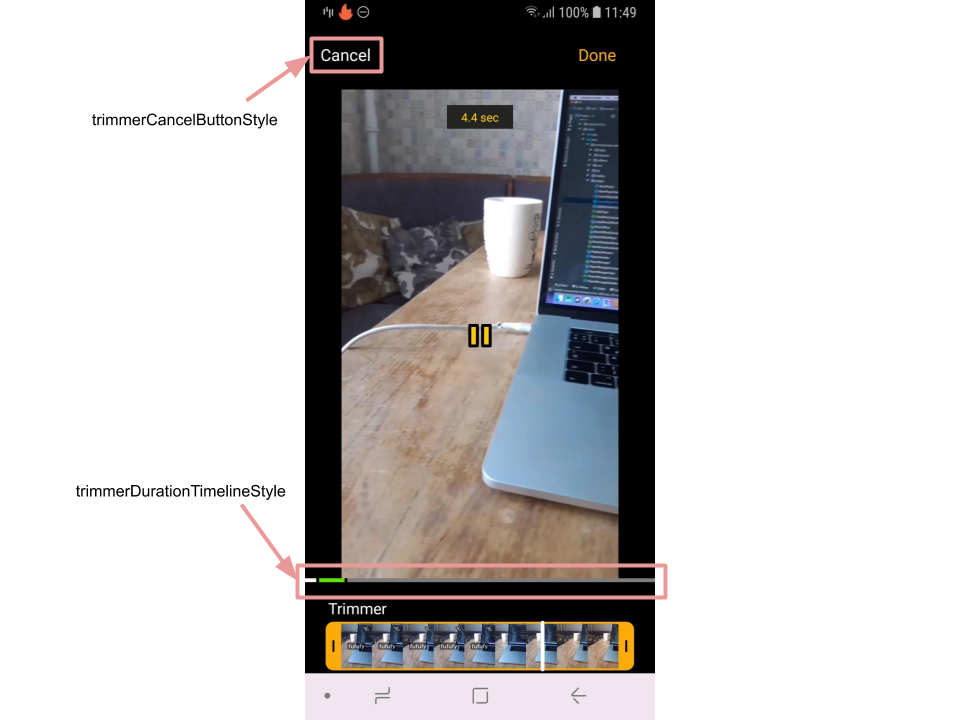
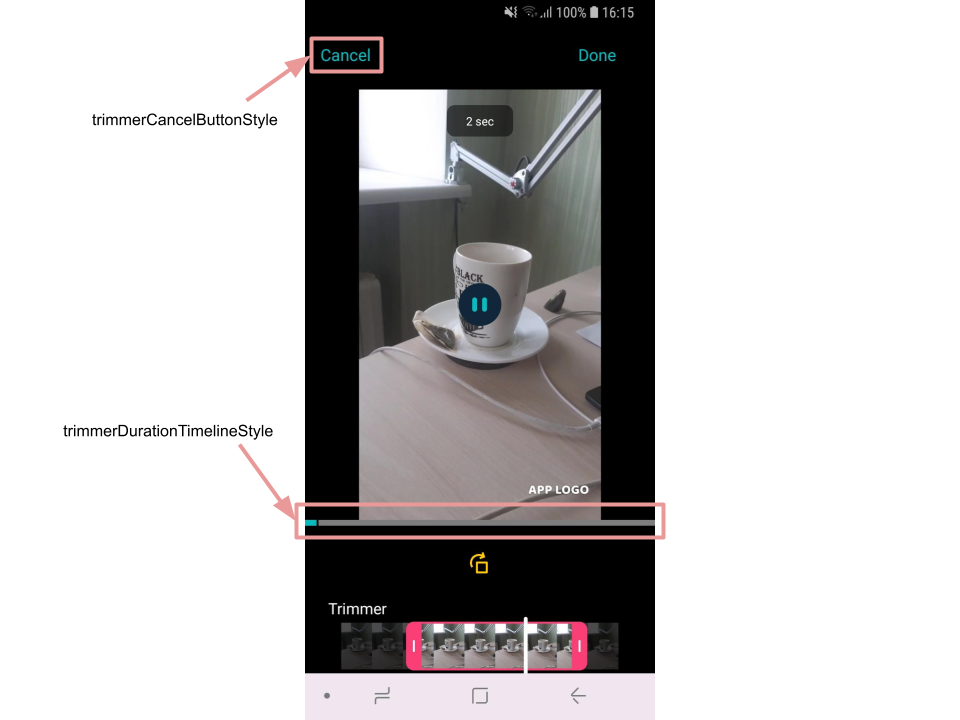
fix trimmer screen styles

diff --git a/mddocs/trimmer_styles.md b/mddocs/trimmer_styles.md
@@ -1,49 +1,69 @@
 # Banuba VideoEditor SDK
 ## Trimmer screen styles
 
-- [trimmerStyle](https://github.com/Banuba/ve-sdk-android-integration-sample/blob/main/app/src/main/res/values/themes.xml#L114)
+- [trimmerStyle](https://github.com/Banuba/ve-sdk-android-integration-sample/blob/main/app/src/main/res/values/themes.xml#L116)
 
     style to customize trimmer view with custom attributes. There are a lot of properties can be changed from its default color to left and right pointers drawables
-- [trimmerBackButtonStyle](https://github.com/Banuba/ve-sdk-android-integration-sample/blob/main/app/src/main/res/values/themes.xml#L115)
+- [trimmerBackButtonStyle](https://github.com/Banuba/ve-sdk-android-integration-sample/blob/main/app/src/main/res/values/themes.xml#L117)
 
     style for the button that returns the user to the previous screen
-- [trimmerNextButtonStyle](https://github.com/Banuba/ve-sdk-android-integration-sample/blob/main/app/src/main/res/values/themes.xml#L116)
+- [trimmerNextButtonStyle](https://github.com/Banuba/ve-sdk-android-integration-sample/blob/main/app/src/main/res/values/themes.xml#L118)
 
     style for the button that starts trimming process and proceeds to the editor screen. In case of single video it called "Done" and starts trimming, in case of multi videos it called "Done" or "Next" depending on the current action:
     - applies new time borders for the selected video and return to multi videos screen
     - proceeds with all changes to the editor screen
-- [trimmerDurationSumTextStyle](https://github.com/Banuba/ve-sdk-android-integration-sample/blob/main/app/src/main/res/values/themes.xml#L117)
+- [trimmerDurationSumTextStyle](https://github.com/Banuba/ve-sdk-android-integration-sample/blob/main/app/src/main/res/values/themes.xml#L119)
 
-    style for the top label that shows the final duration of selected videos after trimming process
+    style for the top label that shows the final duration of selected videos after trimming process. Visibility of this view is defined in custom attribute - [trimmer_time_visible](https://github.com/Banuba/ve-sdk-android-integration-sample/blob/main/app/src/main/res/values/themes.xml#L138)
 
-- [trimmerContentViewStyle](https://github.com/Banuba/ve-sdk-android-integration-sample/blob/main/app/src/main/res/values/themes.xml#L118)
+- [trimmerContentViewStyle](https://github.com/Banuba/ve-sdk-android-integration-sample/blob/main/app/src/main/res/values/themes.xml#L120)
 
     style for the view that plays a role of a container for the trimmer view or the view containing list of selected videos
 
-- [trimmerContentLabelStyle](https://github.com/Banuba/ve-sdk-android-integration-sample/blob/main/app/src/main/res/values/themes.xml#L119)
+- [trimmerContentLabelStyle](https://github.com/Banuba/ve-sdk-android-integration-sample/blob/main/app/src/main/res/values/themes.xml#L121)
 
     style for the label of trimmer view (or list of videos) container
 
+- [trimmerRotateButtonStyle](https://github.com/Banuba/ve-sdk-android-integration-sample/blob/main/app/src/main/res/values/themes.xml#L130)
+
+    style for the rotate button
+
+- [trimmer_icon_play](https://github.com/Banuba/ve-sdk-android-integration-sample/blob/main/app/src/main/res/values/themes.xml#L134) and [trimmer_icon_pause](https://github.com/Banuba/ve-sdk-android-integration-sample/blob/main/app/src/main/res/values/themes.xml#L135)
+
+    attributes for different playback icon states. Visibility of the playback icon itself is defined in [trimmer_play_control_visible](https://github.com/Banuba/ve-sdk-android-integration-sample/blob/main/app/src/main/res/values/themes.xml#L133) attribute
+
     ![img](screenshots/trimmer1.png)
-- [trimmerRecyclerStyle](https://github.com/Banuba/ve-sdk-android-integration-sample/blob/main/app/src/main/res/values/themes.xml#L120)
+- [trimmerRecyclerStyle](https://github.com/Banuba/ve-sdk-android-integration-sample/blob/main/app/src/main/res/values/themes.xml#L122)
 
     style for the RecyclerView containing the list of selected videos
 
-- [trimmerThumbImageStyle](https://github.com/Banuba/ve-sdk-android-integration-sample/blob/main/app/src/main/res/values/themes.xml#L121)
+- [trimmerThumbImageStyle](https://github.com/Banuba/ve-sdk-android-integration-sample/blob/main/app/src/main/res/values/themes.xml#L123)
 
     style for the video item image within trimmer RecyclerView
 
-- [trimmerThumbTextStyle](https://github.com/Banuba/ve-sdk-android-integration-sample/blob/main/app/src/main/res/values/themes.xml#L122)
+- [trimmerThumbHintIconStyle](https://github.com/Banuba/ve-sdk-android-integration-sample/blob/main/app/src/main/res/values/themes.xml#L131)
+
+    style for the top right icon on the video thumbnail
+
+- [trimmerThumbTextStyle](https://github.com/Banuba/ve-sdk-android-integration-sample/blob/main/app/src/main/res/values/themes.xml#L124)
 
     style for the video item duration within trimmer RecyclerView
 
-- [trimmerDeleteLabelStyle](https://github.com/Banuba/ve-sdk-android-integration-sample/blob/main/app/src/main/res/values/themes.xml#L123)
+- [trimmerDeleteLabelStyle](https://github.com/Banuba/ve-sdk-android-integration-sample/blob/main/app/src/main/res/values/themes.xml#L125)
 
     style for the text view that appears when the user dragging video from the videos list. The video should be moved over the "delete" image to be deleted
 
-- [trimmerDeleteCrossStyle](https://github.com/Banuba/ve-sdk-android-integration-sample/blob/main/app/src/main/res/values/themes.xml#L124)
+- [trimmerDeleteCrossStyle](https://github.com/Banuba/ve-sdk-android-integration-sample/blob/main/app/src/main/res/values/themes.xml#L126)
 
     style for the image view that appears when the user dragging video from the videos list. The video should be moved over the "delete" image to be deleted 
+
+- [trimmerContentHintStyle](https://github.com/Banuba/ve-sdk-android-integration-sample/blob/main/app/src/main/res/values/themes.xml#L129)
+
+    style for the TextView describing available action on the screen
+
+- [trimmer_icon_add_video](https://github.com/Banuba/ve-sdk-android-integration-sample/blob/main/app/src/main/res/values/themes.xml#L136)
+
+    attribute for the drawable resource representing a button that allows to select additional videos from the gallery. Also there is a [trimmer_bg_color_add_video](https://github.com/Banuba/ve-sdk-android-integration-sample/blob/main/app/src/main/res/values/themes.xml#L137) attribute to define the background color of this icon
 
     ![img](screenshots/trimmer2.png)
 
@@ -57,14 +77,6 @@
 
     ![img](screenshots/trimmer3.png)
 
-Trimmer screen customization also provided by several custom theme attributes:
-- [trimmer_play_control_visible](https://github.com/Banuba/ve-sdk-android-integration-sample/blob/main/app/src/main/res/values/themes.xml#L128) - to set if buttons play/pause should be visible
-- [trimmer_icon_play](https://github.com/Banuba/ve-sdk-android-integration-sample/blob/main/app/src/main/res/values/themes.xml#L129) - for play button drawable
-- [trimmer_icon_pause](https://github.com/Banuba/ve-sdk-android-integration-sample/blob/main/app/src/main/res/values/themes.xml#L130) - for pause button drawable
-- [trimmer_icon_add_video](https://github.com/Banuba/ve-sdk-android-integration-sample/blob/main/app/src/main/res/values/themes.xml#L131) - for the last item in videos list RecyclerView. This item allows the user to open gallery screen to add videos to the recent list
-- [trimmer_bg_color_add_video](https://github.com/Banuba/ve-sdk-android-integration-sample/blob/main/app/src/main/res/values/themes.xml#L132) - for the background color of the special item configured by "trimmer_icon_add_video" attribute
-- [trimmer_time_visible](https://github.com/Banuba/ve-sdk-android-integration-sample/blob/main/app/src/main/res/values/themes.xml#L133) - to set if the label that shows final video duration should be visible
-- [trimmer_hint_visible](https://github.com/Banuba/ve-sdk-android-integration-sample/blob/main/app/src/main/res/values/themes.xml#L134) - to set if the custom hint should be visible. To configure the custom hint the TrimmerHintStyle should be overridden.
 
 ## String resources
 
@@ -75,5 +87,6 @@ Trimmer screen customization also provided by several custom theme attributes:
 | trimmer_duration_format_exceed | Max length %1$s sec | label that is shown on the top of the trimmer screen in case of the sum of all selected videos exceeds the ```maxVideoDuration``` parameter in [videoeditor.json](https://github.com/Banuba/ve-sdk-android-integration-sample/blob/main/app/src/main/assets/videoeditor.json#L4) file. Realated TextView is customized in ```trimmerDurationSumTextStyle```
 | trimmer_content_label_single | Trimmer | label of the trimmer when selected one video. Related TextView is customized in ```trimmerContentLabelStyle```
 | trimmer_content_label_multi | Multitrimmer | label of the trimmer when selected several videos. Related TextView is customized in ```trimmerContentLabelStyle```
+| trimmer_content_hint | Use long press to change the order or remove | message shown on the multitrim inside the view customized by the `trimmerContentHintStyle`
 | err_trimmer_invalid_duration | Video duration should be between %1$d and %2$d seconds | error message shown as a [toast](alert_styles.md#L11). Here placeholders are values from ```minVideoDuration``` and ```maxVideoDuration``` parameters in [videoeditor.json](https://github.com/Banuba/ve-sdk-android-integration-sample/blob/main/app/src/main/assets/videoeditor.json#L3) file
 | err_trimmer_internal | Error while making video | error message shown as a [toast](alert_styles.md#L11) if an undefined exception appeared during trimming video
